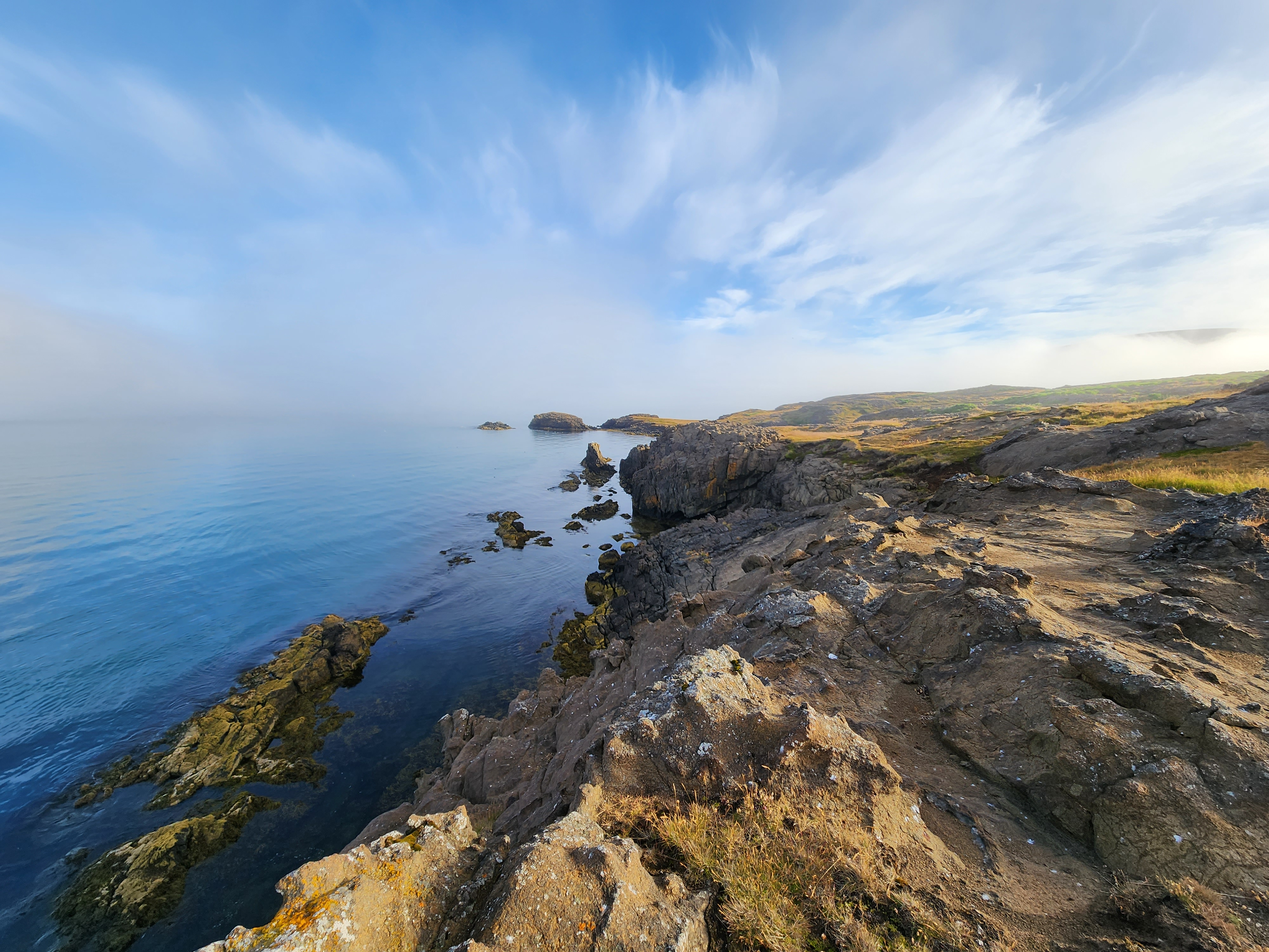
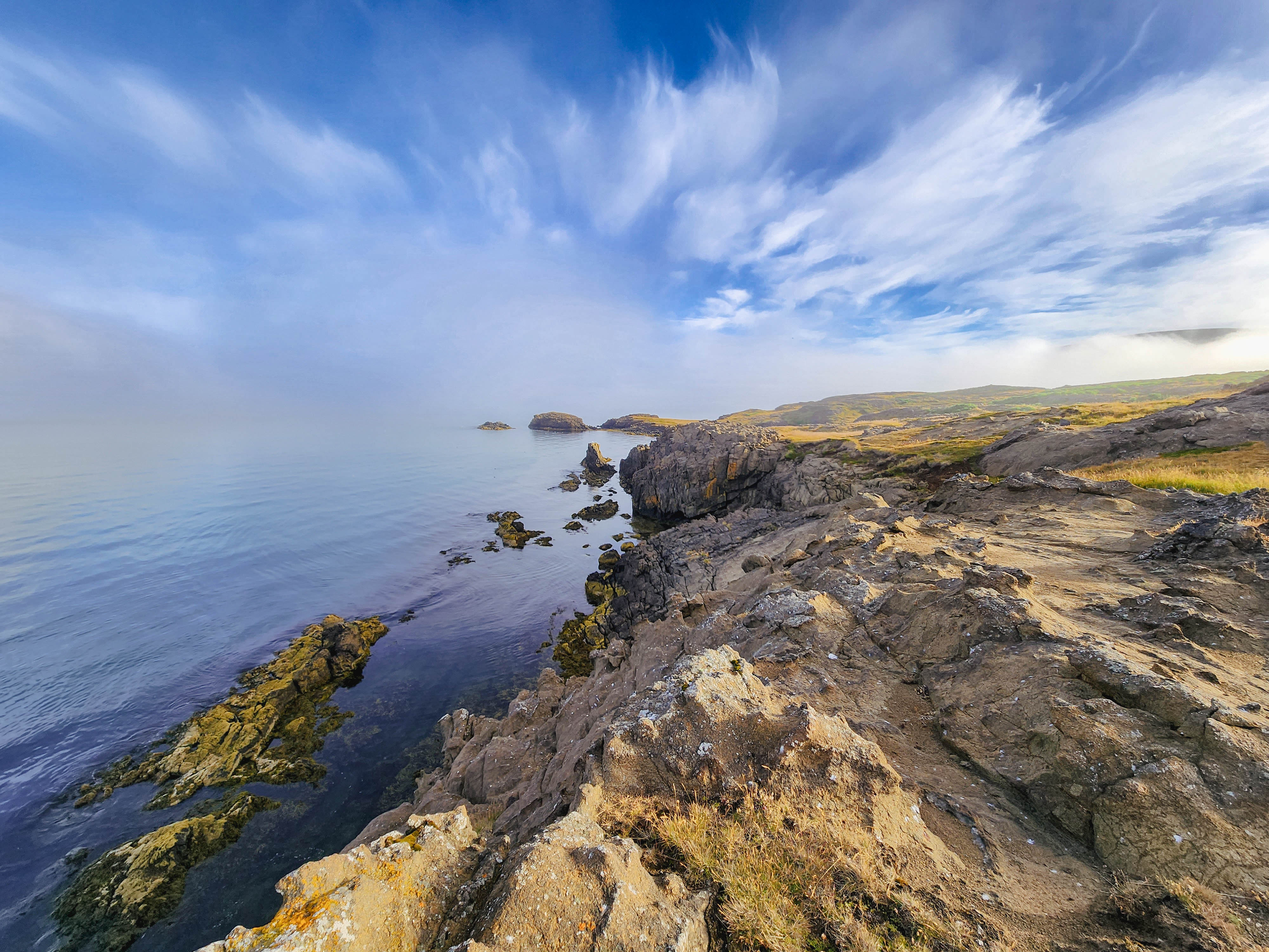
changed hero and colours

diff --git a/assets/css/main.css b/assets/css/main.css
@@ -1,18 +1,13 @@
 /* --- THE TISA EDITORIAL THEME --- */
 :root {
   /* Sampled directly from the images */
-  --bg-bone: #f4f3ee;
-  /* The warm cream/bone background */
-  --bg-olive: #44473d;
-  /* The deep muted olive block */
+  --bg-bone: #f2f1ea;          /* Coastal Mist: Cool, crisp off-white */
+  --bg-dark-accent: #3f464d;   /* Stormy Slate: Cool, architectural blue-grey */
 
   /* Text Colors */
-  --text-dark: #1c1c1c;
-  /* Almost black for sharp contrast */
-  --text-body: #595959;
-  /* Soft dark gray for paragraphs */
-  --text-light: #f4f3ee;
-  /* Bone color for text on dark backgrounds */
+  --text-dark: #1c1c1c;        /* Almost black for sharp contrast */
+  --text-body: #595959;        /* Soft dark gray for paragraphs */
+  --text-light: #f2f1ea;       /* Updated to match the new background */
 
   /* Typography */
   --font-serif: 'Cormorant Garamond', serif;
@@ -73,7 +68,7 @@ h6 {
 /* --- FULL-BLEED HERO WITH OVERLAY --- */
 .full-bleed-hero {
   position: relative;
-  
+  z-index: 0;
   /* Break out of the Jekyll layout container */
   width: 100vw;
   margin-left: calc(-50vw + 50%);
@@ -103,7 +98,7 @@ h6 {
   left: 0;
   width: 100%;
   height: 100%;
-  background-color: rgba(28, 28, 28, 0.35); 
+  background-color: rgba(28, 28, 28, 0.1); 
   z-index: 2;
 }
 
@@ -227,24 +222,22 @@ h6 {
   height: 100%;
   overflow-y: auto;
   overflow-x: hidden;
-  background: #44473d;
+  background: var(--bg-bone);
   border-right: 1px solid rgba(244, 243, 238, 0.15);
   z-index: 2;
   padding: 3rem 2.5rem;
-  color: var(--text-light);
+  color: var(--text-body);
 }
 
 .map-sidebar h1,
 .map-sidebar h2,
 .map-sidebar h3,
 .map-sidebar h4 {
-  color: var(--text-light);
-  font-family: var(--font-serif);
-  font-weight: 500;
+  color: var(--text-dark); /* Changed from var(--text-light) */
 }
 
 .map-sidebar p {
-  color: rgba(244, 243, 238, 0.75);
+  color: var(--text-body); /* Changed from rgba(244, 243, 238, 0.75) */
 }
 
 #map {
@@ -270,7 +263,7 @@ h6 {
   }
 
   #map {
-    height: 60vh;
+    height: 62vh;
   }
 }
 
@@ -381,7 +374,7 @@ a:hover {
 
 /* --- Custom Navbar Height --- */
 .navbar {
-  height: 50px;
+  height: 62px;
   padding-top: 0;
   padding-bottom: 0;
 }
@@ -844,9 +837,8 @@ a:hover {
 /* --- THE MAP TILES (Editorial Muted Filter) --- */
 /* This applies a soft, warm, desaturated look to the default map */
 .leaflet-tile-pane {
-    filter: grayscale(30%) sepia(5%) brightness(1.02) contrast(0.95);
+    filter: grayscale(20%) sepia(15%) brightness(0.98) contrast(0.95) saturate(1.1);
 }
-
 
 /* --- THE RIGHT-SIDE MAP BUTTONS --- */
 /* Assuming these have standard button classes, we force the editorial style */

diff --git a/assets/js/map.js b/assets/js/map.js
@@ -49,7 +49,6 @@ window.addEventListener("load", () => {
     zoomControl: false,
   }).fitBounds(regionBounds.world);
 
-
   // Manually add the zoom control to the bottom right
   L.control
     .zoom({
@@ -57,8 +56,13 @@ window.addEventListener("load", () => {
     })
     .addTo(map);
 
+  // Moody, Dark Slate Theme (Carto Dark Matter)
+  // Carto Voyager - Muted, earthy daytime map
+  // Carto Positron - Clean, monochromatic light grey/linen map
   L.tileLayer("https://tile.openstreetmap.org/{z}/{x}/{y}.png", {
-    attribution: "&copy; OpenStreetMap contributors",
+    maxZoom: 19,
+    attribution:
+      '&copy; <a href="http://www.openstreetmap.org/copyright">OpenStreetMap</a>',
   }).addTo(map);
 
   // Set region control back to topright

diff --git a/_layouts/default.html b/_layouts/default.html
@@ -2,6 +2,13 @@
 <html lang="en">
 
 <head>
+  <style>
+  /* Permanently prevent horizontal scrolling */
+  html, body {
+    overflow-x: hidden !important;
+    width: 100%;
+  }
+</style>
   <meta charset="utf-8">
   <meta name="viewport" content="width=device-width, initial-scale=1">
   <title>{{ page.title | default: site.title }}</title>
